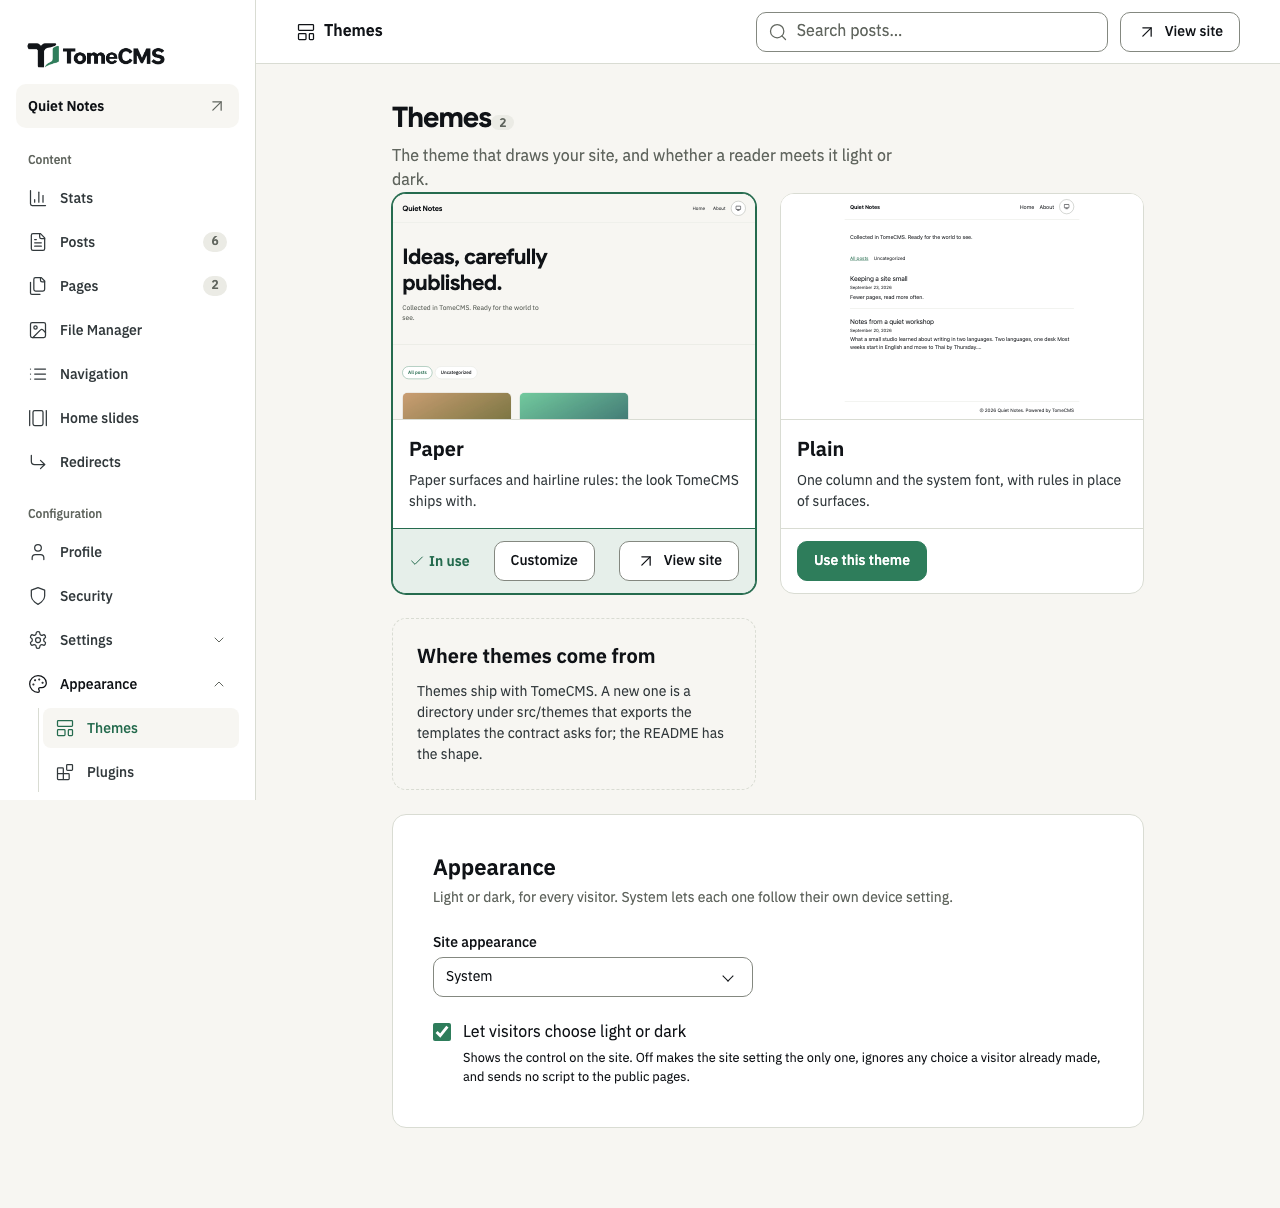
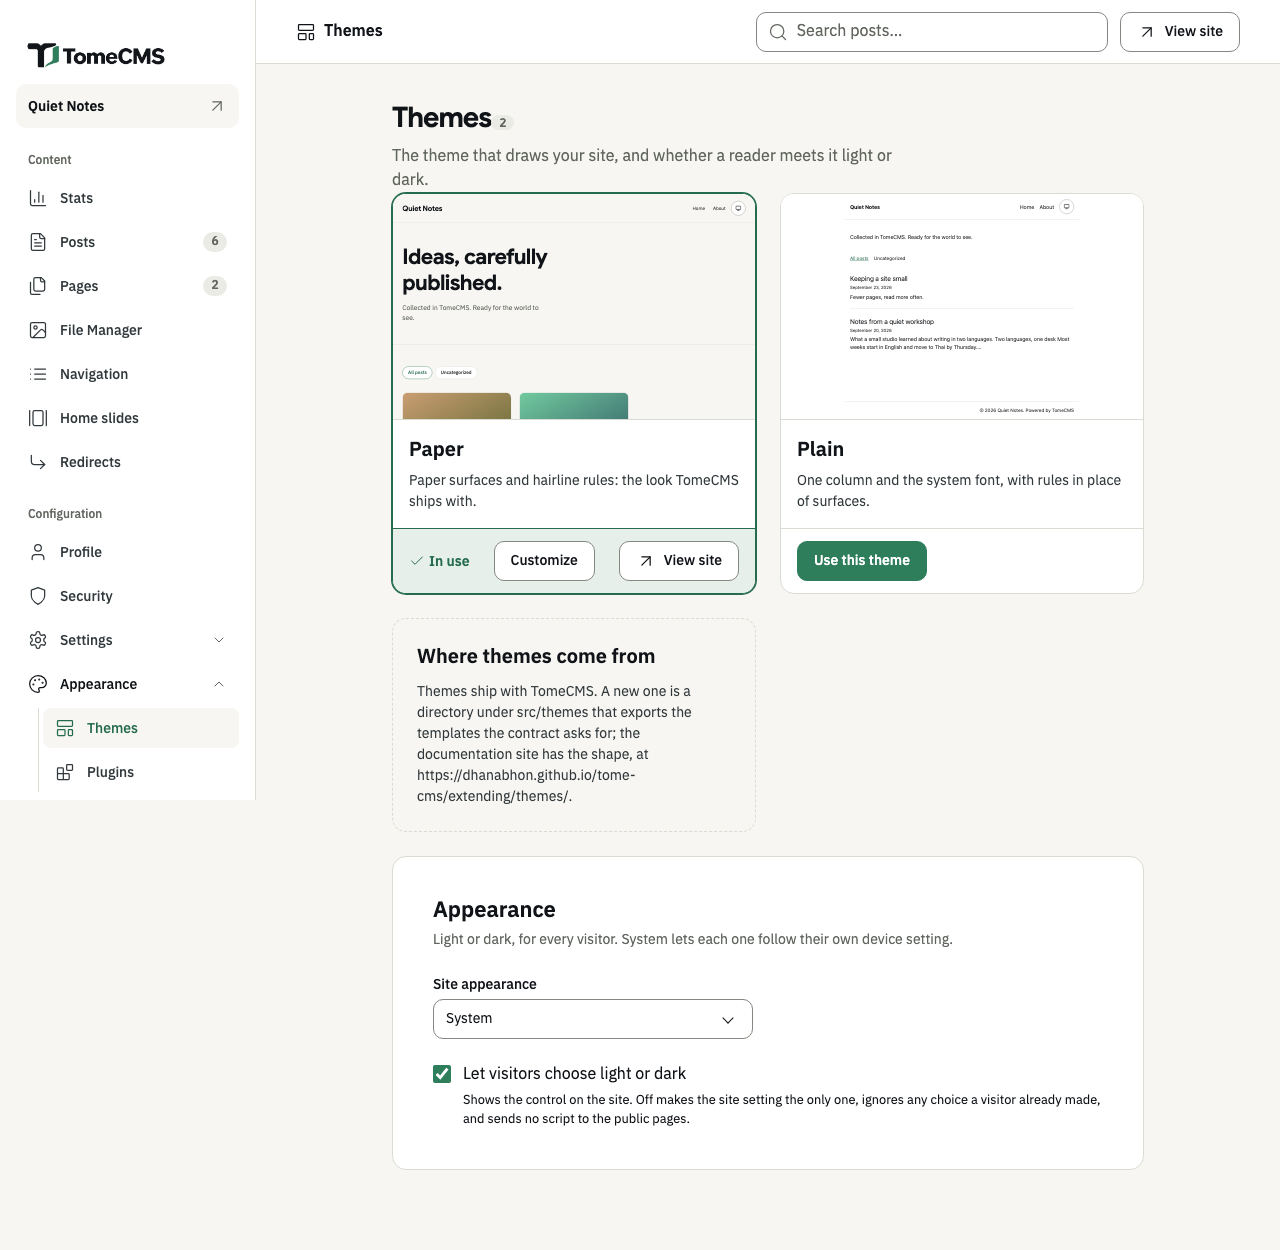
docs(site): final review fixes before going live
Applies the final whole-branch review's Important and Minor issues: widens
the docs workflow's path filter so app changes trigger a rebuild, restricts
the Pages/deploy steps to main, corrects the JavaScript claim on What
TomeCMS is, redirects the Thai API reference picker to the English pages,
reruns the stale Themes screenshots, points the Thai Themes copy at the
Thai extending page, keeps website/ out of the app's Docker build context,
pictures the System screen on Updating, aligns the Node version and the
Stats label quoting with the rest of the site, and cleans up three nits.

diff --git a/src/lib/admin-i18n.ts b/src/lib/admin-i18n.ts
@@ -1266,7 +1266,7 @@ const th: typeof en = {
     activated: 'ตอนนี้เว็บของคุณวาดด้วย {name} แล้ว',
     active: 'กำลังใช้',
     previewLabel: '{name} ที่วาดด้วยบทความของคุณเอง',
-    sourceBody: 'ธีมมาพร้อมกับ TomeCMS ธีมใหม่คือโฟลเดอร์ใน src/themes ที่ export เทมเพลตตามที่สัญญากำหนดไว้ ดูรูปแบบได้ที่เว็บไซต์เอกสาร https://dhanabhon.github.io/tome-cms/extending/themes/',
+    sourceBody: 'ธีมมาพร้อมกับ TomeCMS ธีมใหม่คือโฟลเดอร์ใน src/themes ที่ export เทมเพลตตามที่สัญญากำหนดไว้ ดูรูปแบบได้ที่เว็บไซต์เอกสาร https://dhanabhon.github.io/tome-cms/th/extending/themes/',
     sourceTitle: 'ธีมมาจากไหน',
     siteLabel: 'การแสดงผลของเว็บไซต์',
     siteHint: 'สว่างหรือมืด สำหรับผู้เข้าชมทุกคน เลือก "ตามระบบ" แล้วแต่ละคนจะได้ตามการตั้งค่าเครื่องตัวเอง',

diff --git a/src/pages/api/admin/previews.ts b/src/pages/api/admin/previews.ts
@@ -7,9 +7,9 @@
  * this endpoint exists for a headless frontend, which has no session to scope to and is
  * promised draft previews by the headless mode the documentation site describes. It is
  * deliberately absent from /api/v1/content/openapi.json: that document describes the public
- * content contract, and
- * both halves of the preview flow are private (tests/unit/public-http.test.ts pins that
- * previews stay private and that their token paths are redacted).
+ * content contract, and both halves of the preview flow are private
+ * (tests/unit/public-http.test.ts pins that previews stay private and that their token
+ * paths are redacted).
  *
  * So: no caller is expected. Do not delete it for being unused.
  */

diff --git a/website/scripts/openapi.ts b/website/scripts/openapi.ts
@@ -1,6 +1,7 @@
 /**
  * Writes the app's OpenAPI document where the documentation's reference pages are built from.
- * The reference is generated rather than written, so it cannot say anything the API does not do.
+ * The reference is generated from the app's own schemas, not hand-written, though a parameter
+ * can still drift from what a route actually does.
  * Run from the repository root, where the app's dependencies are: `npm run docs:openapi`.
  */
 import { mkdirSync, writeFileSync } from 'node:fs';

diff --git a/website/src/content/docs/th/running/updating.md b/website/src/content/docs/th/running/updating.md
@@ -9,6 +9,8 @@ TomeCMS ตอนนี้ยังเป็นรุ่นพรีวิวก
 
 หน้าแอดมินยังติดตั้งอัปเดตเองไม่ได้ ที่เมนู "ระบบ" จะแสดงเวอร์ชันของคุณไว้ข้าง "เวอร์ชันที่ติดตั้งอยู่:" และตรวจกับ repository ทางการบน GitHub ได้ว่ามีรุ่น stable ที่ใหม่กว่าหรือยัง ในการติดตั้งตอนนี้ หน้านั้นจะขึ้นว่า "ใช้การอัปเดตแบบจัดการให้ไม่ได้" และ "โหมดการอัปเดต:" เป็น `check-only`
 
+![หน้า "ระบบ" หัวข้อ "อัปเดตระบบ" มีการ์ด "สถานะการอัปเดต" ที่มี "สถานะเวอร์ชัน: ตรวจสอบไม่ได้", "เวอร์ชันที่ติดตั้งอยู่: 0.11.0" และ "Update check unavailable." อยู่ข้างปุ่ม "ตรวจสอบอีกครั้ง" ด้านล่างเป็นการ์ด "ใช้การอัปเดตแบบจัดการให้ไม่ได้" ที่บอกว่า "This installation is configured for update checks only." และ "โหมดการอัปเดต:" เป็น "check-only"](../../../../assets/screenshots/th/system.png)
+
 ## อัปเกรดเว็บที่เป็น 0.x
 
 1. หยุดแอป แล้วสำรอง PostgreSQL และ bucket ของมีเดียไว้พร้อมกัน และตรวจชุดสำรองตามหน้า[สำรองและกู้คืนข้อมูล](/tome-cms/th/running/backups/) จากนั้นปล่อยแอปหยุดไว้อย่างนั้น เพื่อไม่ให้มีข้อมูลใหม่ที่ชุดสำรองไม่มี

diff --git a/website/src/content/docs/th/start/install.md b/website/src/content/docs/th/start/install.md
@@ -7,7 +7,7 @@ sidebar:
 
 การติดตั้งในตอนนี้เป็นรุ่นพรีวิวก่อน 1.0 สคริปต์ deploy (`scripts/deploy-vps.sh`) จะรัน PostgreSQL, SeaweedFS และแอปด้วย Docker Compose แล้ว build image ของแอปบนเซิร์ฟเวอร์จากโค้ดที่คุณ clone มา
 
-ก่อนเริ่ม ให้เตรียมเซิร์ฟเวอร์ให้พร้อม ชี้ DNS ของทั้งสอง origin มาที่เครื่อง และตั้ง reverse proxy ไว้ตามหน้า[สิ่งที่เซิร์ฟเวอร์ต้องมี](/tome-cms/th/start/requirements/) สคริปต์ทำงานบน Linux และต้องมี Node.js 22 ขึ้นไป, Docker Engine พร้อมปลั๊กอิน Compose และ Git ให้รันด้วยผู้ใช้ที่สั่ง `docker` ได้
+ก่อนเริ่ม ให้เตรียมเซิร์ฟเวอร์ให้พร้อม ชี้ DNS ของทั้งสอง origin มาที่เครื่อง และตั้ง reverse proxy ไว้ตามหน้า[สิ่งที่เซิร์ฟเวอร์ต้องมี](/tome-cms/th/start/requirements/) สคริปต์ทำงานบน Linux และต้องมี Node.js 22.12 ขึ้นไป, Docker Engine พร้อมปลั๊กอิน Compose และ Git ให้รันด้วยผู้ใช้ที่สั่ง `docker` ได้
 
 ## 1. ดึงโค้ดลงเครื่อง
 

diff --git a/website/src/content/docs/th/api/counting-readers.md b/website/src/content/docs/th/api/counting-readers.md
@@ -5,7 +5,7 @@ sidebar:
   order: 2
 ---
 
-ธีมในตัวนับผู้อ่านให้หน้า **เนื้อหา → สถิติ** ในแอดมินเอง แต่เว็บแบบ headless ต้องส่งยอดเหล่านี้มาเอง โดยส่งไปที่ `/api/v1/stats/hit` ซึ่งเป็น route เดียวใน API ที่เขียนข้อมูลได้
+ธีมในตัวนับผู้อ่านให้หน้า "สถิติ" ใต้ "เนื้อหา" ในแอดมินเอง แต่เว็บแบบ headless ต้องส่งยอดเหล่านี้มาเอง โดยส่งไปที่ `/api/v1/stats/hit` ซึ่งเป็น route เดียวใน API ที่เขียนข้อมูลได้
 
 คำขอทั้งหมดมีเท่านี้ ส่งจากเบราว์เซอร์ของผู้อ่านตอนที่บทความเปิดขึ้นมา
 

diff --git a/website/src/content/docs/running/updating.md b/website/src/content/docs/running/updating.md
@@ -9,6 +9,8 @@ TomeCMS is still a pre-1.0 preview. You upgrade a 0.x install in place, from a n
 
 The admin cannot install an update yet. Under "System" it shows your version next to "Installed version:" and can check the official repository on GitHub for a newer stable release. On today's install that screen says "Managed updates unavailable", and "Update mode:" reads `check-only`.
 
+![The System screen. "System updates" shows an "Update status" card with "Release availability: Check unavailable", "Installed version: 0.11.0" and "Update check unavailable." next to a "Check again" button. Below it, a "Managed updates unavailable" card says "This installation is configured for update checks only.", with "Update mode:" reading "check-only".](../../../assets/screenshots/en/system.png)
+
 ## Upgrading a 0.x install
 
 1. Stop the application, then back up PostgreSQL and the media bucket together and check the backup, as [Backups and restore](/tome-cms/running/backups/) describes. Leave the application stopped, so nothing is written that the backup does not hold.

diff --git a/website/src/content/docs/start/install.md b/website/src/content/docs/start/install.md
@@ -7,7 +7,7 @@ sidebar:
 
 Today's install is a pre-1.0 preview. The deploy helper, `scripts/deploy-vps.sh`, runs PostgreSQL, SeaweedFS and the application with Docker Compose, and builds the application image on the server from your checkout of the code.
 
-Before you start, have the server, the DNS for both origins and the reverse proxy ready, as [What the server needs](/tome-cms/start/requirements/) describes. The helper runs on Linux, and needs Node.js 22 or later, Docker Engine with the Compose plugin, and Git. Run it as a user who can use `docker`.
+Before you start, have the server, the DNS for both origins and the reverse proxy ready, as [What the server needs](/tome-cms/start/requirements/) describes. The helper runs on Linux, and needs Node.js 22.12 or newer, Docker Engine with the Compose plugin, and Git. Run it as a user who can use `docker`.
 
 ## 1. Get the code
 

diff --git a/website/src/content/docs/start/requirements.md b/website/src/content/docs/start/requirements.md
@@ -15,7 +15,7 @@ One VPS runs the whole site. Docker Compose runs three containers on it: the Tom
 | Memory | 2 GB, with 2 GB of swap | 4 GB |
 | Disk | 25 GB SSD | 50 GB SSD, more for a large media library |
 | Architecture | `amd64` or `arm64` | `amd64` or `arm64` |
-| System | 64-bit Linux with systemd, Docker Engine with its Compose plugin, Node.js 22 or later, and Git | Ubuntu 24.04 LTS, which CI runs on |
+| System | 64-bit Linux with systemd, Docker Engine with its Compose plugin, Node.js 22.12 or newer, and Git | Ubuntu 24.04 LTS, which CI runs on |
 
 The deploy helper needs Linux, Node.js and Docker, and a user that can run `docker`. The managed install planned for 1.0.0 also needs systemd 235 or later.
 

diff --git a/website/src/content/docs/api/counting-readers.md b/website/src/content/docs/api/counting-readers.md
@@ -5,7 +5,7 @@ sidebar:
   order: 2
 ---
 
-The bundled theme counts its own readers for **Content → Stats** in the admin. A headless site has to send those counts itself. It posts them to `/api/v1/stats/hit`, the one route in the API that writes anything.
+The bundled theme counts its own readers for "Stats", under "Content", in the admin. A headless site has to send those counts itself. It posts them to `/api/v1/stats/hit`, the one route in the API that writes anything.
 
 This is the whole request, sent from the reader's browser when a post opens:
 

diff --git a/.github/pull_request_template.md b/.github/pull_request_template.md
@@ -22,3 +22,4 @@
 - [ ] Colours, spacing and radii come from the design tokens
 - [ ] A schema change is a new migration, not an edit to a shipped one
 - [ ] No credentials, `.env` files, dumps or backups are committed
+- [ ] An admin screen changed: ran `npm run docs:screenshots` and committed the pictures that changed for a real reason
